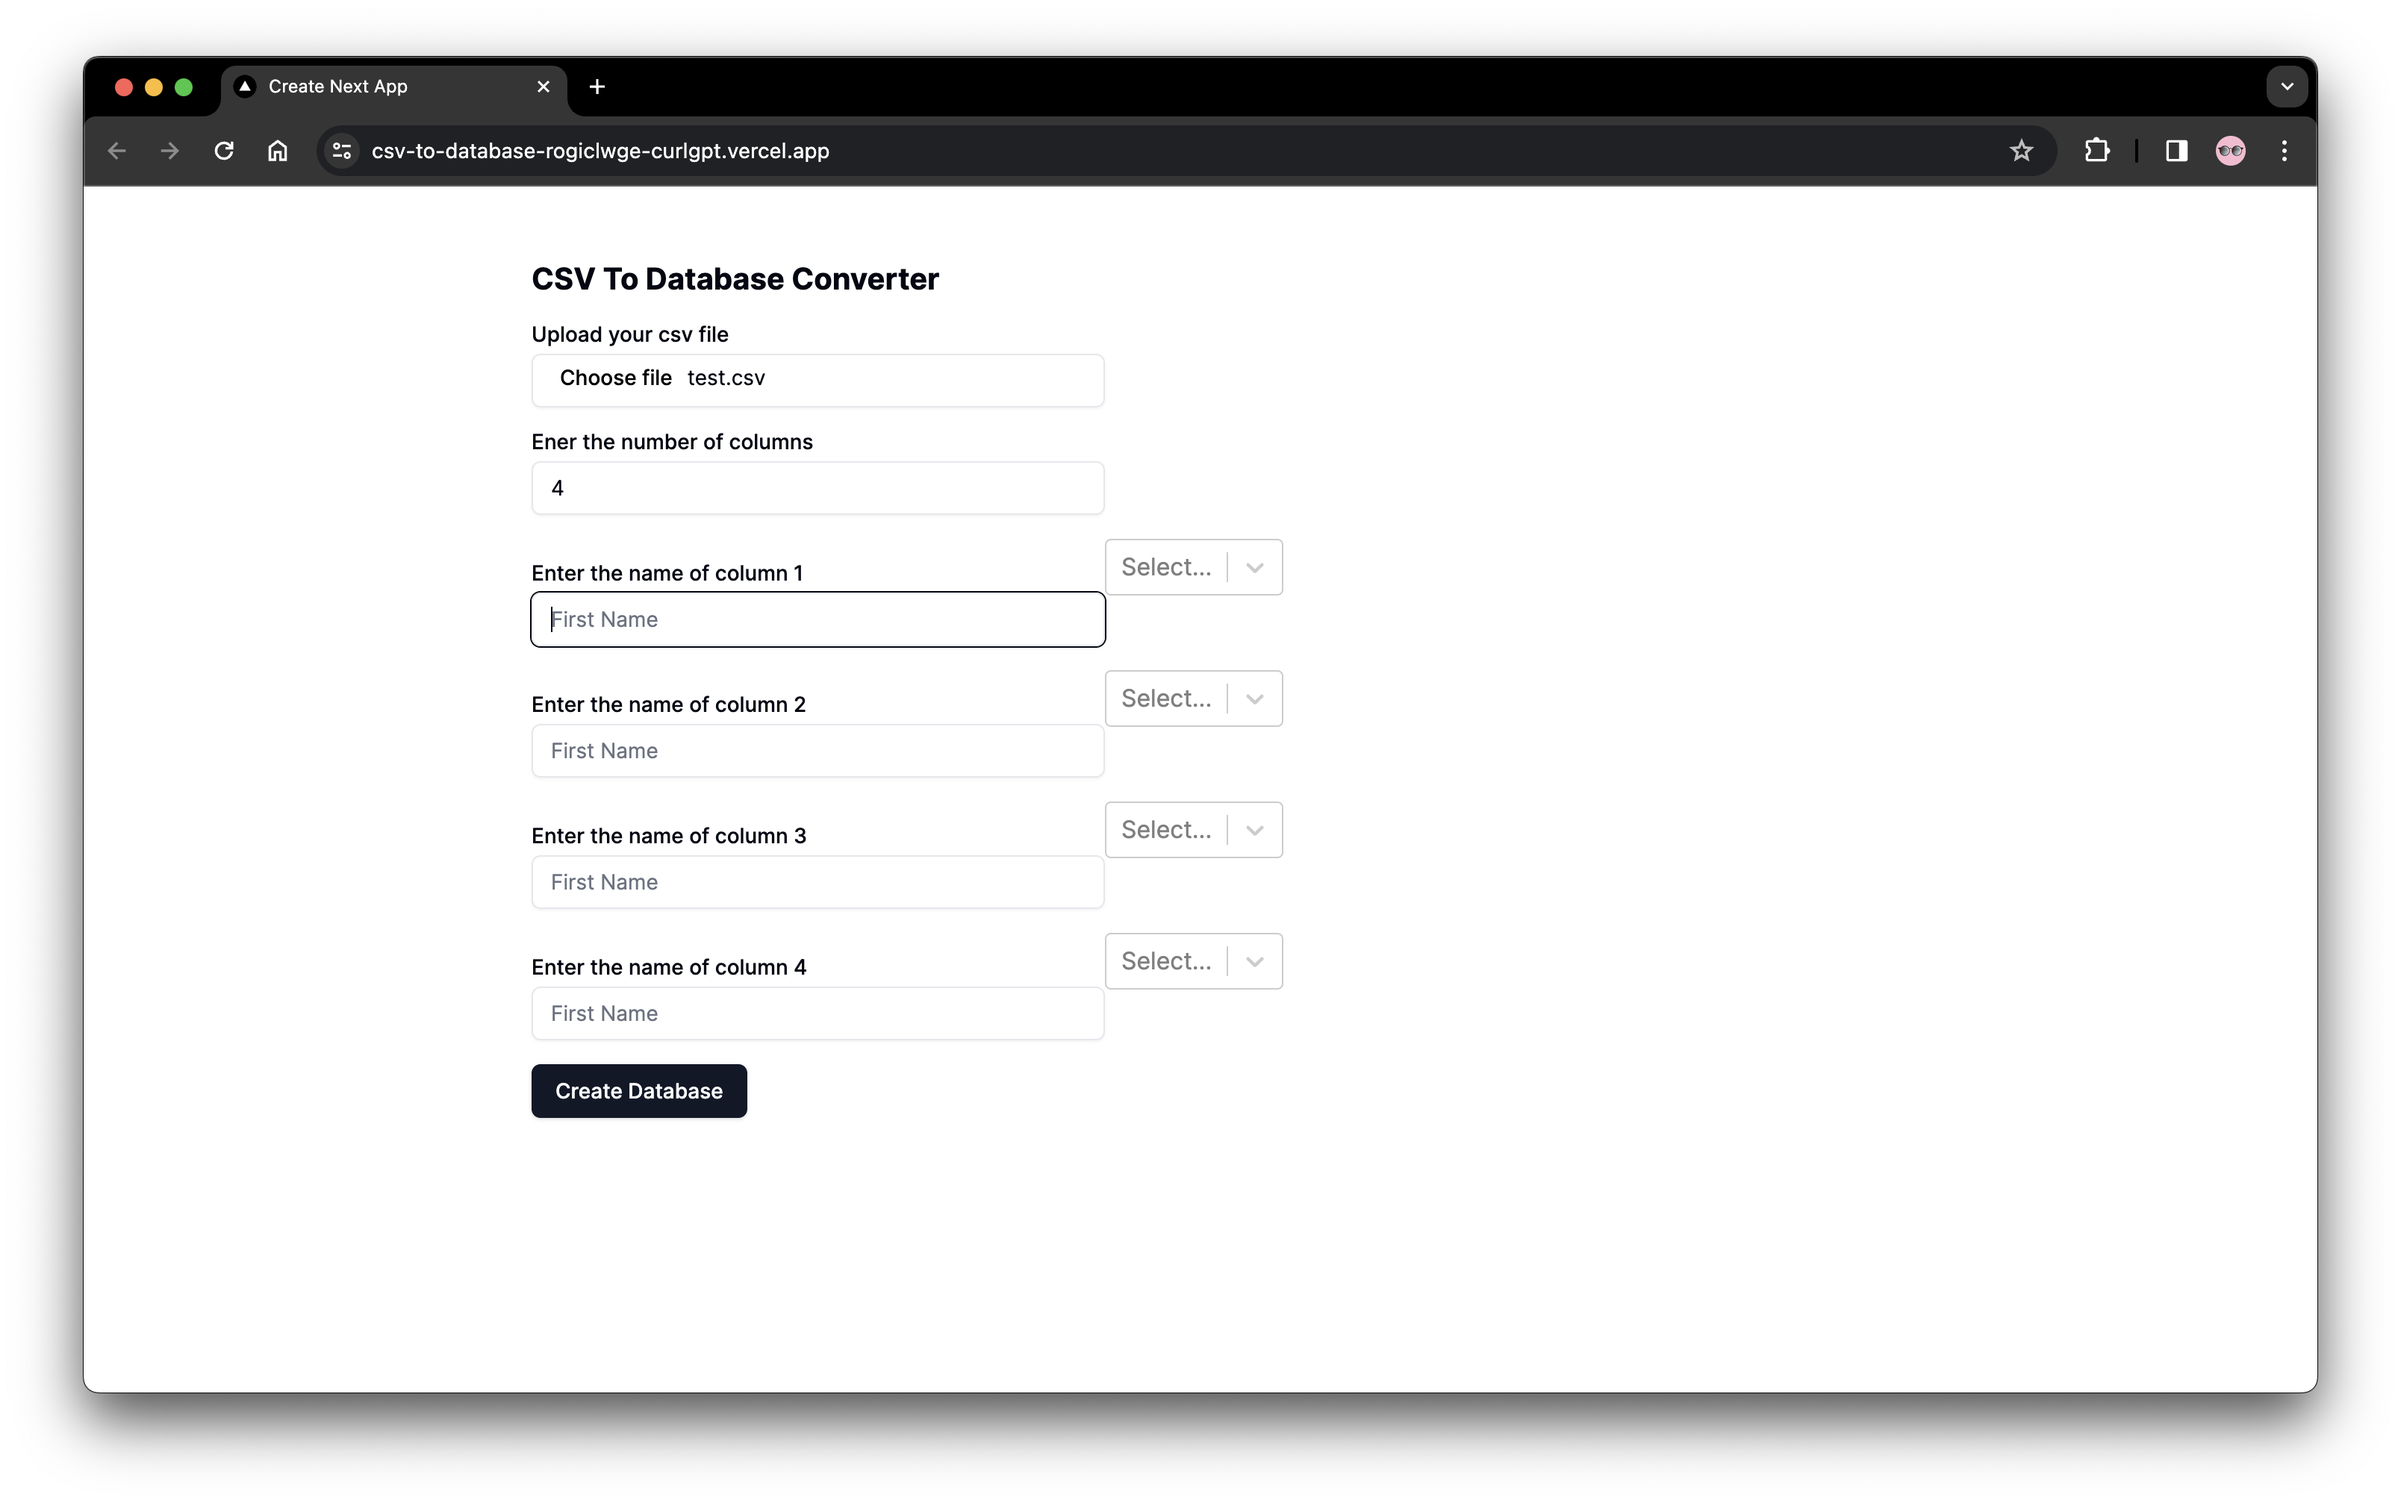
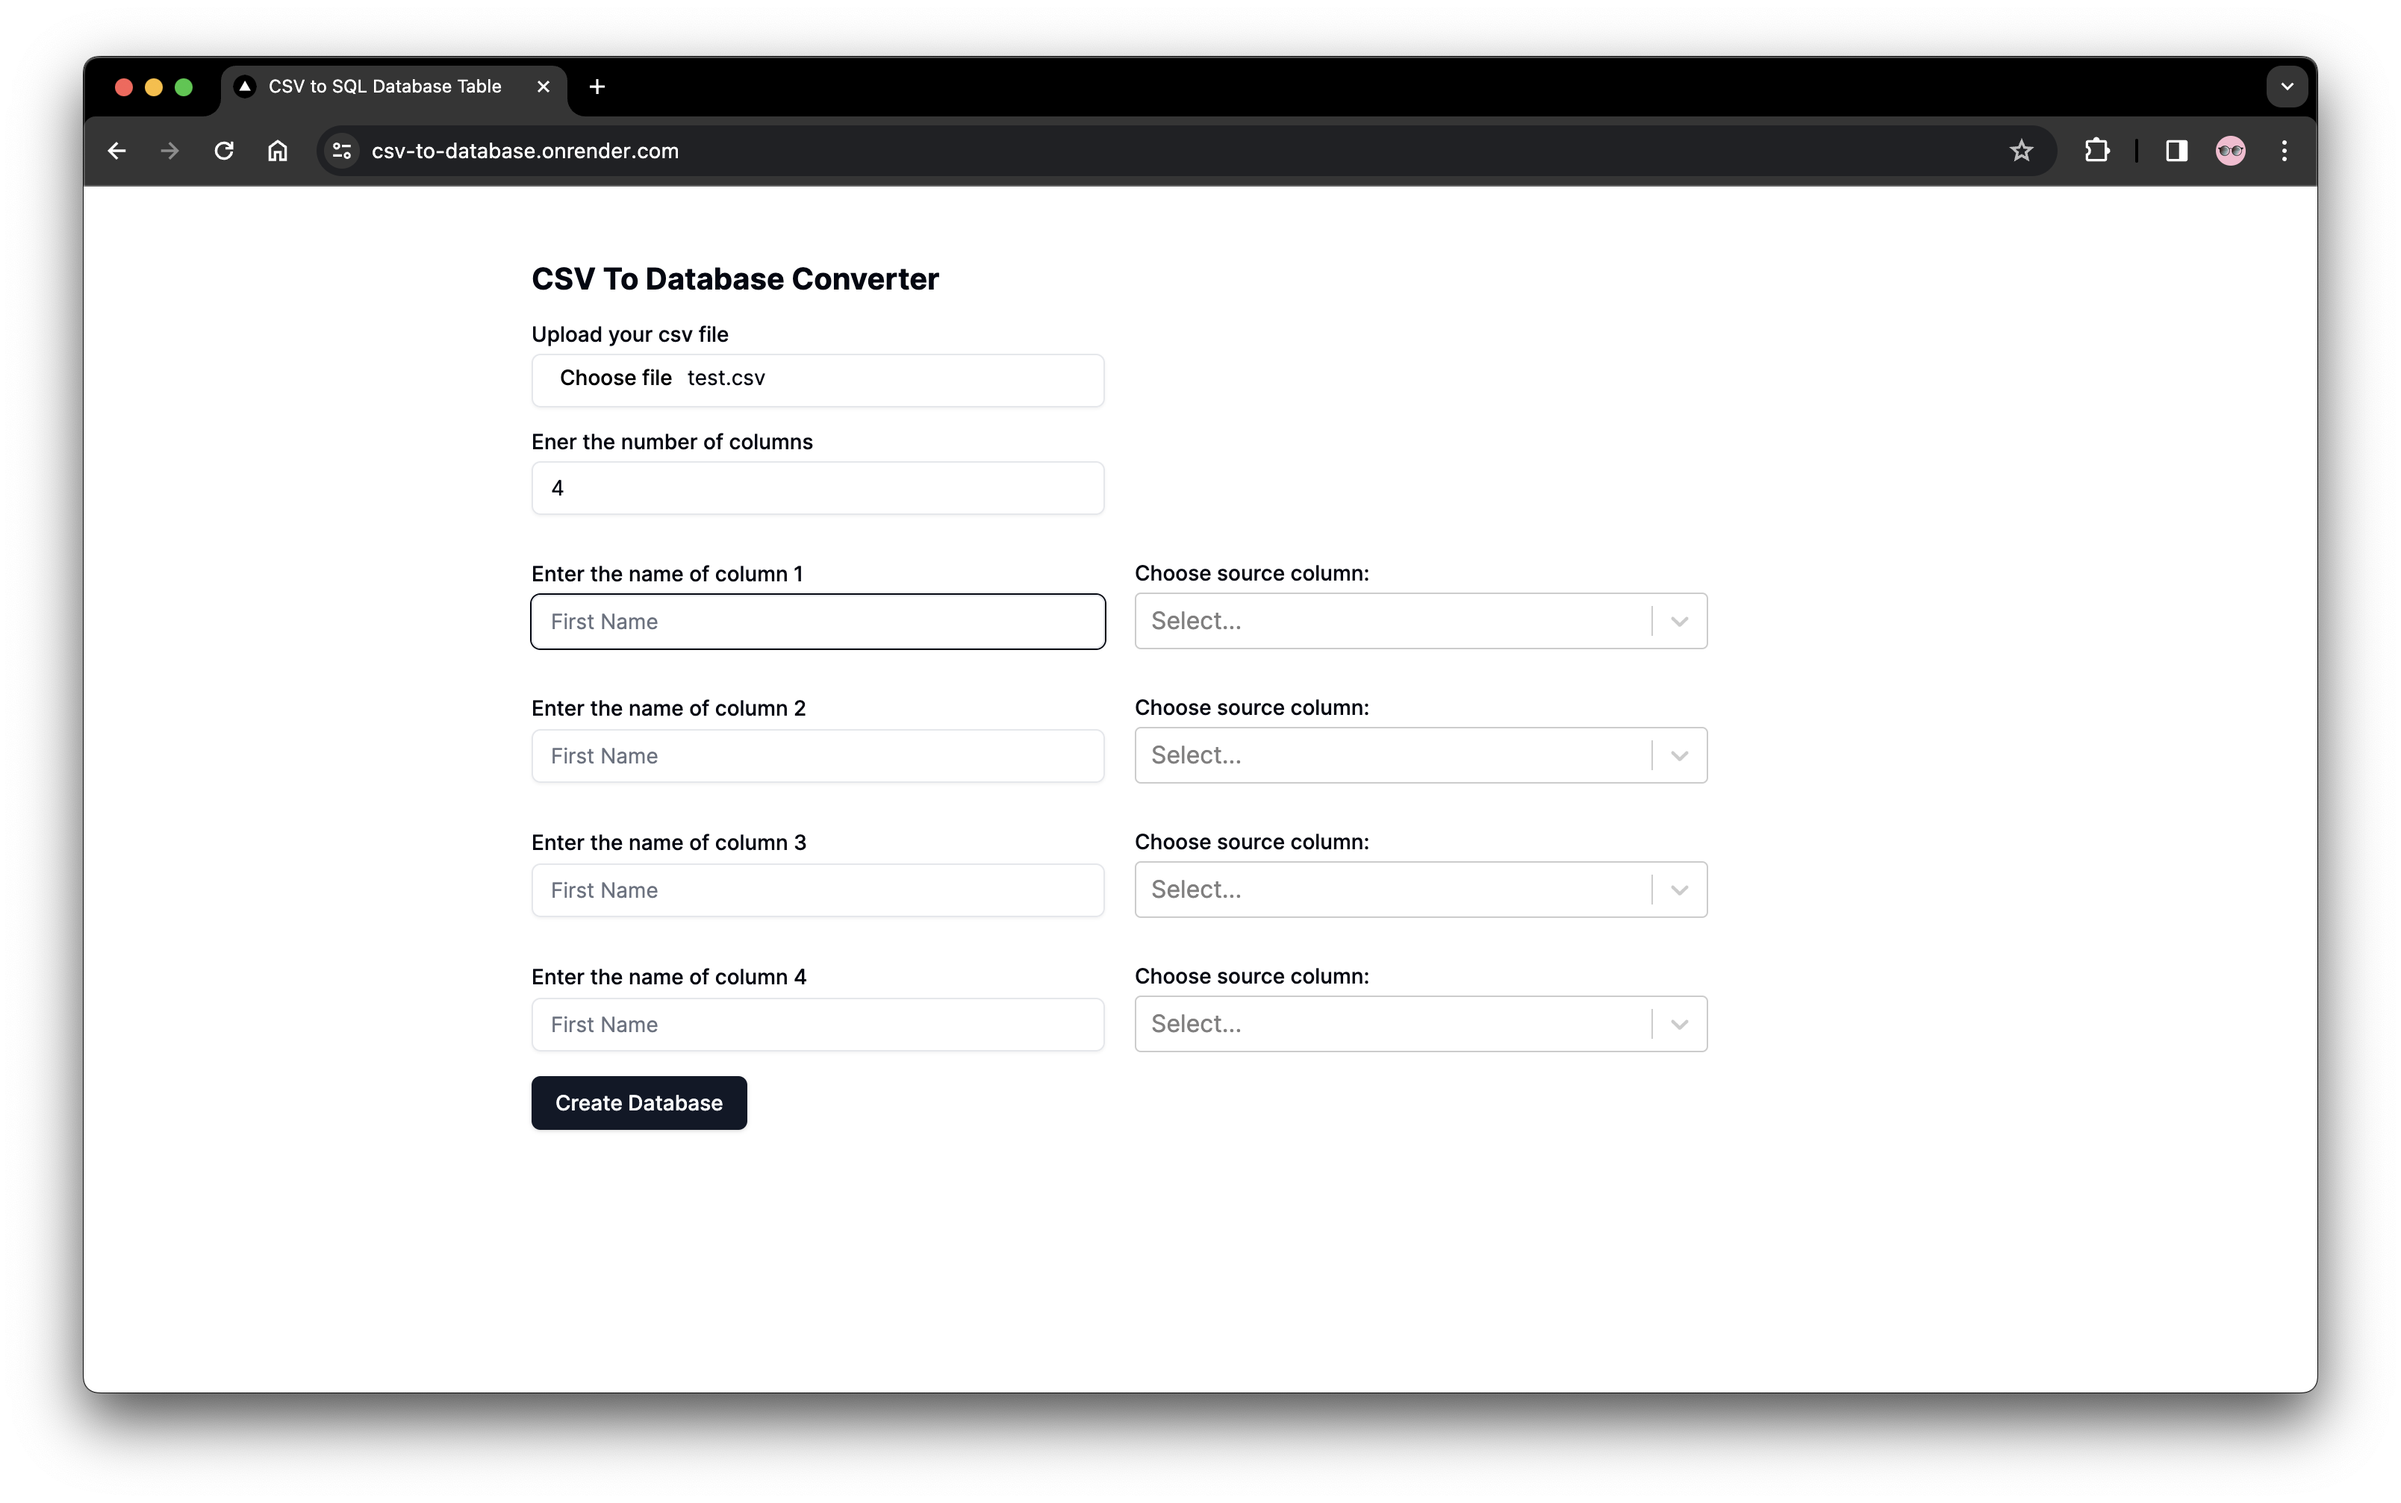
Chore: Update readme

diff --git a/components/ColumnMapping.tsx b/components/ColumnMapping.tsx
@@ -133,7 +133,7 @@ const ColumnSelect: FC<ColumnSelectProps> = ({
                                     <SelectContent>
                                         <SelectGroup>
                                             <SelectItem value="concatenate">
-                                                Contatinate
+                                                Concatenate
                                             </SelectItem>
                                             <SelectItem value="duplicate">
                                                 Duplicate data

diff --git a/README.md b/README.md
@@ -1,6 +1,6 @@
 # CSV-to-Database Tool
 
-**Welcome to the [CSV-to-Database Tool](https://csv-to-database.vercel.app/)**, a user-friendly No Code solution designed for non-technical individuals to effortlessly convert CSV files into SQL Databases Table within seconds. 🚀
+**Welcome to the [CSV-to-Database Tool](https://csv-to-database.onrender.com/)**, a user-friendly No Code solution designed for non-technical individuals to effortlessly convert CSV files into SQL Databases Table within seconds. 🚀
 
 ## Features:
 
@@ -16,7 +16,9 @@ This tool is built using [Next.js](https://nextjs.org/), ensuring a modern and e
 
 Follow these simple steps to convert your CSV file to an SQL Database Table (You can find a test.csv file under `test-data` folder):
 
-1. Visit the [CSV-to-Database Tool](https://csv-to-database-rogiclwge-curlgpt.vercel.app/).
+1. Visit the [CSV-to-Database Tool](https://csv-to-database.onrender.com/).
+
+    > When you open the website for the first time, it will take few seconds to laod.
 
 2. Upload your CSV file to the application. 📂
    ![choose file](./images/screenshots/choose-file.png)
@@ -26,7 +28,7 @@ Follow these simple steps to convert your CSV file to an SQL Database Table (You
 
 4. For each column, provide a name and select the source column(s) whose values you want to populate in the new SQL Table column.
 
-    > Note: Multiple source columns can be chosen from the dropdown menu. 🔄
+    > Note: You can choose multiple source columns and select either concatenate or duplicate the whole row for each source column 🔄
 
     ![enter column name](./images/screenshots/column-name.png)
 
@@ -47,5 +49,17 @@ Suppose you have a CSV with columns A, B, and C. You want to create an SQL Table
 -   Column 2:
     -   Name: MergedData
     -   Source Columns: Select both "B" and "C" from the dropdown menu.
+-   In the source Handle Multiple source dropdown, select **Concatenate**
+
+Similarly, you can duplicate the rows for 2 columns when populating a single destination column. Suppose you have a CSV with columns ID, Class 1, and Class 2. You want to create an SQL Table with two columns - "ID" and "Class," where "Class" contains values from either columns Class 1 or Class 2. Here's how you would set it up:
+
+-   Number of Columns: 2
+-   Column 1:
+    -   Name: ID
+    -   Source Column: Select "ID" from the dropdown menu.
+-   Column 2:
+    -   Name: Class
+    -   Source Columns: Select both "Class 1" and "Class 2" from the dropdown menu.
+-   In the source Handle Multiple source dropdown, select **Duplicate data**
 
 Enjoy the simplicity and speed of converting your CSV data into a structured SQL Database! 🚀📊
